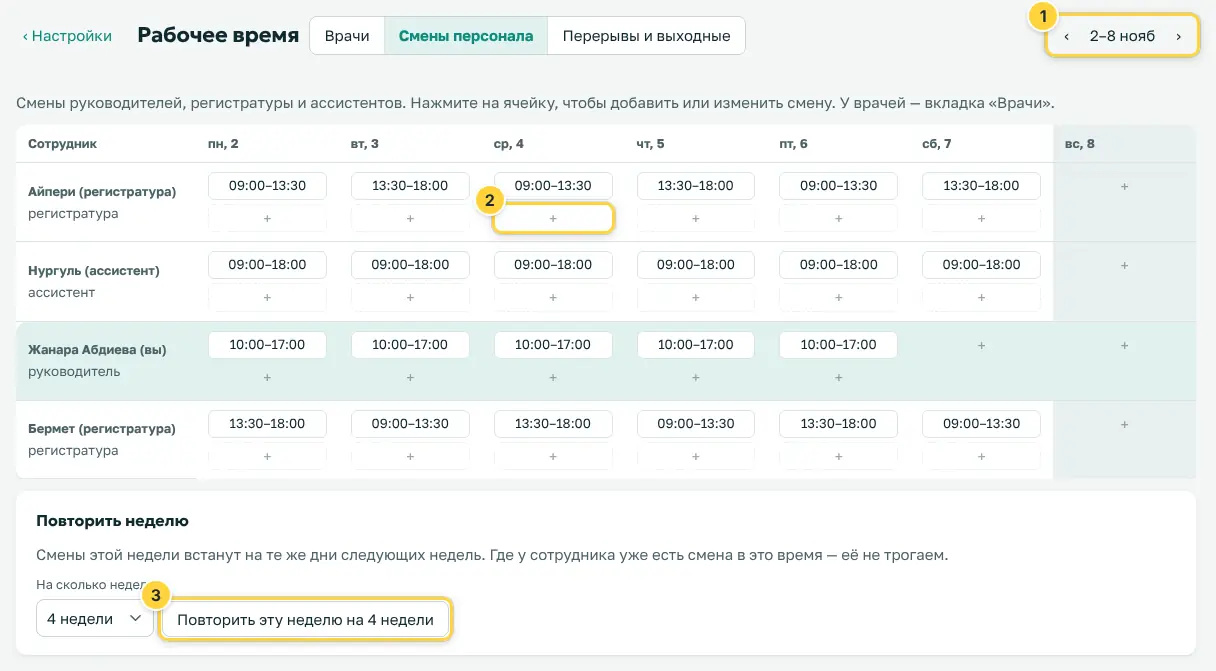
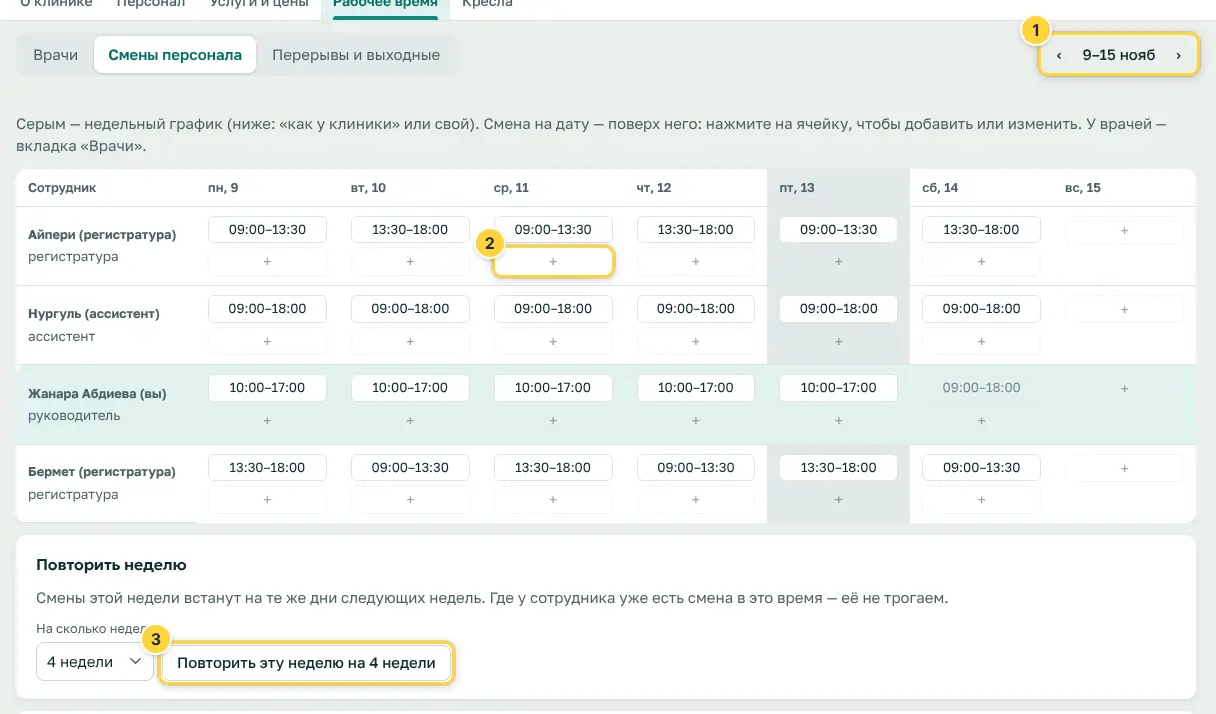
Руководство: снимки «Персонала», карточки врача, часов и графика смен — после переделки
Пересняты sotrudniki, vrach-prava (карточка целиком, от «Ролей» до «Входа»), chasy,
pereryvy (снимается вместе с chasy) и grafik-smen. Неиспользуемый vrach-bez-vhoda.webp удалён.

Claude-Session: https://claude.ai/code/session_01C1D5HDPYP8Vu6bMCVu8hAp

diff --git a/src/site/guide/sizes.ts b/src/site/guide/sizes.ts
@@ -3,7 +3,7 @@
 export const SIZES: Record<string, [number, number]> = {
   'analitika.webp': [1400, 1069],
   'anketa.webp': [1196, 524],
-  'chasy.webp': [1236, 529],
+  'chasy.webp': [1212, 561],
   'den-bez-svodki.webp': [1232, 134],
   'den-kompyuter.webp': [1400, 875],
   'den-shapka.webp': [1188, 104],
@@ -14,7 +14,7 @@ export const SIZES: Record<string, [number, number]> = {
   'dogovor-shablon.webp': [872, 1049],
   'dogovor.webp': [370, 891],
   'dolzhniki.webp': [1212, 299],
-  'grafik-smen.webp': [1216, 671],
+  'grafik-smen.webp': [1216, 714],
   'ii-pomoshnik.webp': [1212, 543],
   'import.webp': [1208, 981],
   'kalendar.webp': [892, 159],
@@ -37,7 +37,7 @@ export const SIZES: Record<string, [number, number]> = {
   'pamyatka.webp': [780, 1572],
   'pamyatki.webp': [1196, 512],
   'perenos.webp': [354, 552],
-  'pereryvy.webp': [1196, 888],
+  'pereryvy.webp': [1196, 861],
   'plan-otpravit.webp': [1175, 586],
   'plan-pechat.webp': [845, 1012],
   'plan.webp': [1192, 448],
@@ -54,7 +54,7 @@ export const SIZES: Record<string, [number, number]> = {
   'sklad.webp': [1216, 900],
   'snimki.webp': [1192, 407],
   'soobshenie.webp': [357, 816],
-  'sotrudniki.webp': [1196, 1043],
+  'sotrudniki.webp': [1197, 709],
   'tabel.webp': [1196, 690],
   'tekst-napominaniya.webp': [916, 814],
   'uslugi.webp': [1400, 1069],
@@ -62,8 +62,7 @@ export const SIZES: Record<string, [number, number]> = {
   'vernut.webp': [1236, 357],
   'vhod.webp': [488, 763],
   'voprosy.webp': [1212, 640],
-  'vrach-bez-vhoda.webp': [374, 413],
-  'vrach-prava.webp': [374, 410],
+  'vrach-prava.webp': [374, 1463],
   'zapolnit.webp': [370, 992],
   'zarabotok.webp': [1212, 478],
   'zarplata.webp': [1212, 803],
